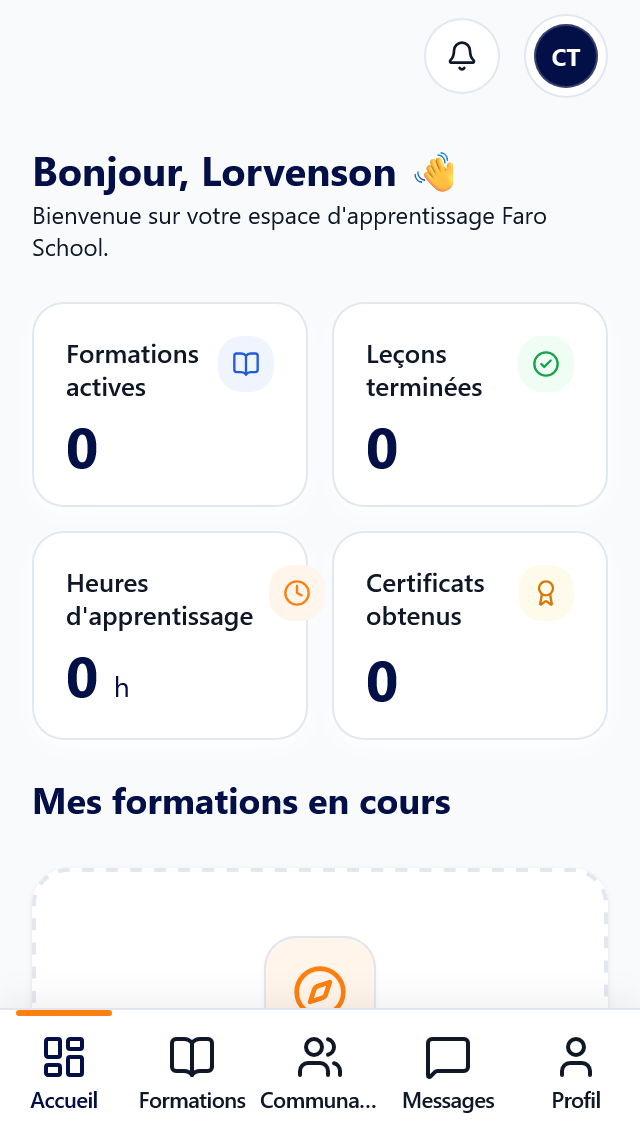
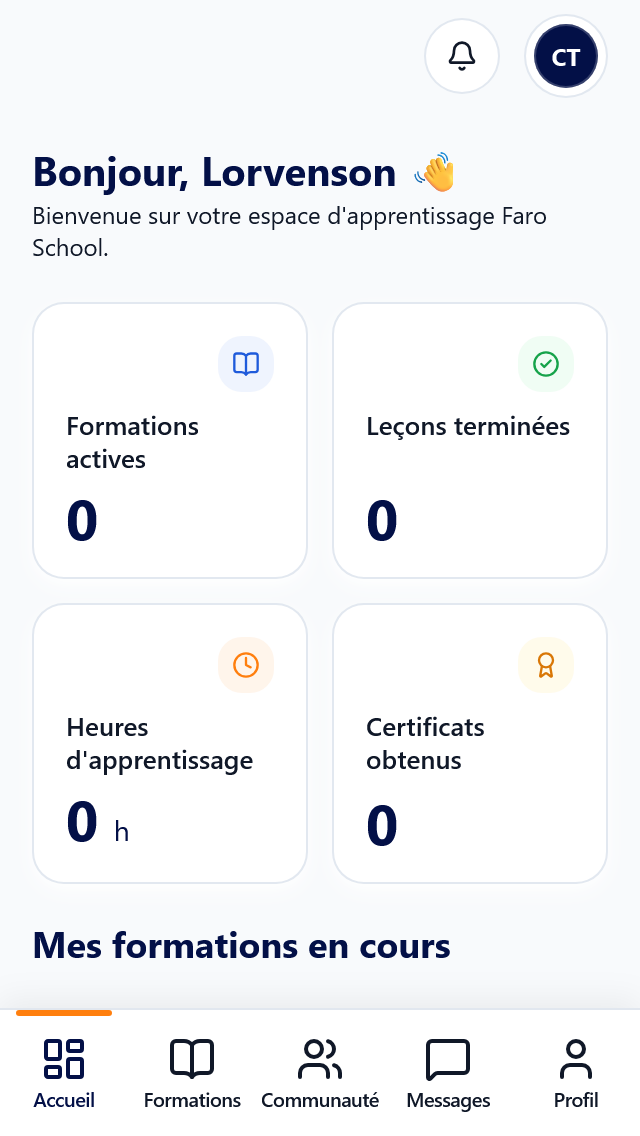
Keep narrow dashboard cards and navigation labels within bounds

diff --git a/src/styles/globals.css b/src/styles/globals.css
@@ -89,3 +89,11 @@ html[data-safe-debug="true"] body::after { bottom:0; height:var(--sab); }
 .chat-dotted-background { background-image:radial-gradient(var(--line) 1px,transparent 1px); }
 
 .compose-backdrop { background:color-mix(in srgb,var(--navy-deep) 60%,transparent); }
+
+/* At 320px the long learning-hours label must not push its icon out of its tile. */
+@media(max-width:359px) {
+ .pwa-home-stats > div > div:first-child { flex-direction:column-reverse; align-items:flex-start; }
+ .pwa-home-stats > div > div:first-child > div { align-self:flex-end; }
+ .pwa-home-stats > div > div:first-child > span { max-width:100%; overflow-wrap:break-word; }
+ .pwa-bottom-nav > a > span:last-child { padding-left:0; padding-right:0; font-size:10px; }
+}

diff --git a/src/app/[locale]/(student)/dashboard/page.tsx b/src/app/[locale]/(student)/dashboard/page.tsx
@@ -297,7 +297,7 @@ export default async function StudentDashboardPage({
       {/* ========================================================= */}
       {/* 2. FOUR STAT CARDS (28px bold value, 2x2 mobile, no trunc)*/}
       {/* ========================================================= */}
-      <div className="grid grid-cols-2 lg:grid-cols-4 gap-3 sm:gap-4">
+      <div className="pwa-home-stats grid grid-cols-2 lg:grid-cols-4 gap-3 sm:gap-4">
         {/* Active courses */}
         <div className="rounded-[16px] border border-line bg-surface p-4 sm:p-5 shadow-card flex flex-col justify-between min-h-[96px] sm:min-h-[108px]">
           <div className="flex items-start justify-between gap-2">

diff --git a/src/components/dashboard/StudentDashboardShell.tsx b/src/components/dashboard/StudentDashboardShell.tsx
@@ -446,7 +446,7 @@ export function StudentDashboardShell({
                     ) : null}
                   </div>
 
-                  {/* Tab label (11px-12px semibold, fits at 320px) */}
+                  {/* Tab label (responsive 10px-12px, kept whole at 320px) */}
                   <span
                     className={`w-full px-0.5 text-[11px] sm:text-[12px] leading-tight tracking-tight text-center truncate ${
                       active ? "text-navy-deep font-semibold" : "text-muted-faro"

diff --git a/scripts/test-pwa-iphone.py b/scripts/test-pwa-iphone.py
@@ -13,10 +13,13 @@ with sync_playwright() as p:
   for name,route,extra in cases:
    page.goto('http://127.0.0.1:4186/?route='+route+'&pwa=1'+extra);page.wait_for_selector('.pwa-lesson-shell' if name=='lesson' else '.pwa-app-main');page.add_style_tag(content=f':root{{--sat:{sat}px;--sab:{sab}px}}')
    if name in ['home','formations']:page.wait_for_selector('[data-server-page] h1')
+   if name=='home':
+    assert page.locator('.pwa-home-stats > div').evaluate_all('''cards=>cards.every(card=>{const r=card.getBoundingClientRect(),head=card.firstElementChild,a=head.firstElementChild.getBoundingClientRect(),b=head.lastElementChild.getBoundingClientRect();return a.left>=r.left&&a.right<=r.right&&b.left>=r.left&&b.right<=r.right&&(a.right<=b.left||b.right<=a.left||a.bottom<=b.top||b.bottom<=a.top)})'''),'stat tile overflow/overlap'
    if name=='lesson':assert page.locator('.pwa-bottom-nav').count()==0
    else:
     page.wait_for_selector('.pwa-bottom-nav');page.wait_for_function("document.documentElement.dataset.appRoute==='true'");nav=page.locator('.pwa-bottom-nav').bounding_box();assert abs(nav['y']+nav['height']-height)<1,(name,width,nav);assert abs(nav['height']-(64+sab))<1,(name,nav)
     assert page.locator('.pwa-bottom-nav').evaluate('(e)=>e.parentElement.tagName')=='BODY'
+    assert page.locator('.pwa-bottom-nav > a > span:last-child').evaluate_all('(labels)=>labels.every(e=>e.scrollWidth<=e.clientWidth)'),(name,width,'nav label clipped')
     assert page.locator('.pwa-bottom-nav').evaluate('''e=>{for(let n=e.parentElement;n;n=n.parentElement){const s=getComputedStyle(n);if(s.transform!=='none'||s.filter!=='none'||s.contain!=='none')return false}return true}''')
     assert page.evaluate('document.documentElement.scrollWidth')<=width,(name,'horizontal overflow')
     header=page.locator('.pwa-app-header').bounding_box();assert header['height']>=56+sat-1

diff --git a/PWA_IPHONE_NOTES.md b/PWA_IPHONE_NOTES.md
@@ -89,3 +89,8 @@ Ces vérifications matérielles restent ouvertes : WebKit automatisé ne prouve 
 Les modifications fonctionnelles concernent uniquement les défauts Profil/Paramètres demandés dans le premier paragraphe du besoin ; la partie PWA ne modifie que structure, dimensions, métadonnées et textes d’accueil explicitement demandés. La communauté, les paiements, les progrès, l’authentification, /app, les règles PWA et le service worker conservent leurs mécanismes existants.
 
 Les vérifications matérielles listées plus haut restent à réaliser par l’utilisateur : cette livraison ne les coche pas comme réussies.
+
+
+### Complément issu de la relecture des PNG à 320px
+
+La carte Heures d’apprentissage poussait son icône hors de sa bordure et Communauté était elliptique. En dessous de 360px seulement, les icônes occupent leur propre ligne, les libellés restent dans la largeur utile et les captions de navigation utilisent 10px sans padding latéral. Les champs de saisie restent à 16px minimum. Les tests vérifient désormais les limites et l’absence de chevauchement de chaque tuile, ainsi que l’absence de troncature de chaque libellé de navigation sur les quatre tailles. La capture after-home-320.png a été régénérée à partir du vrai rendu corrigé.
